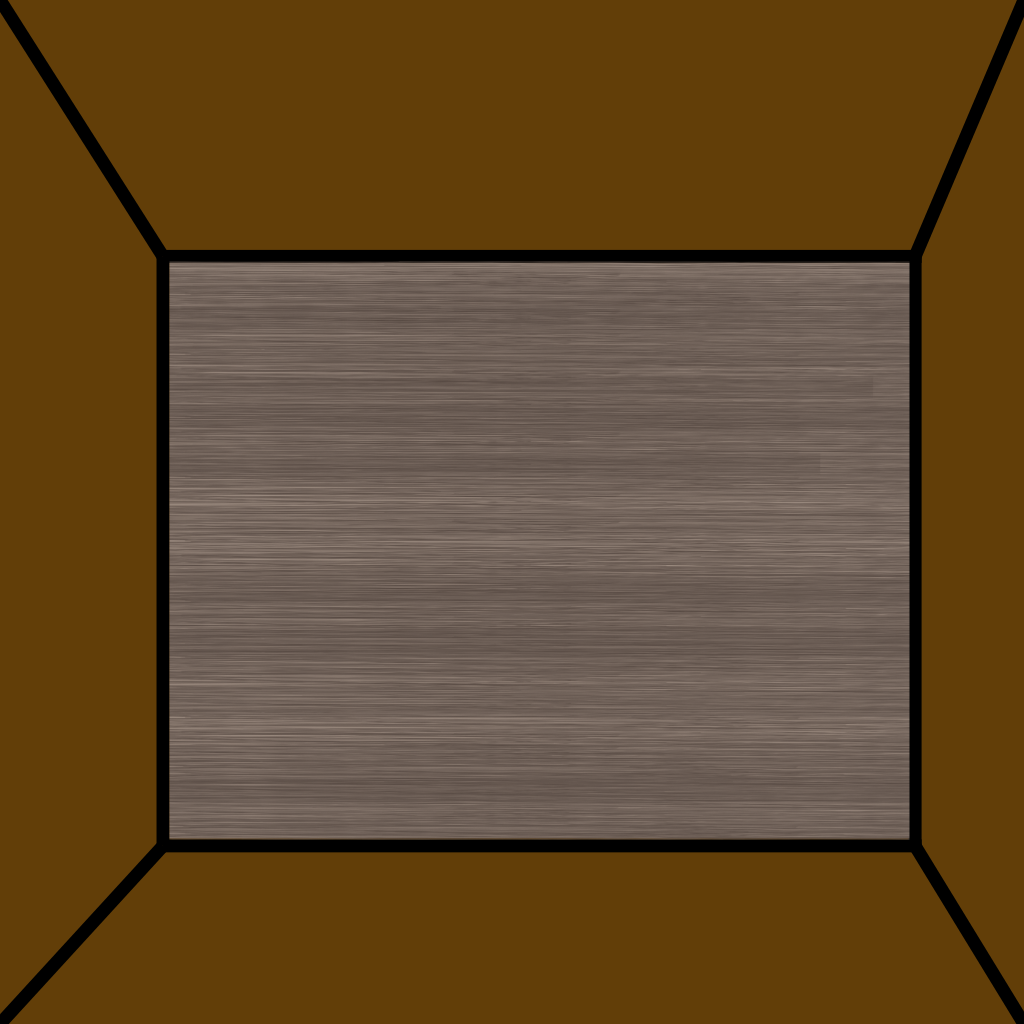
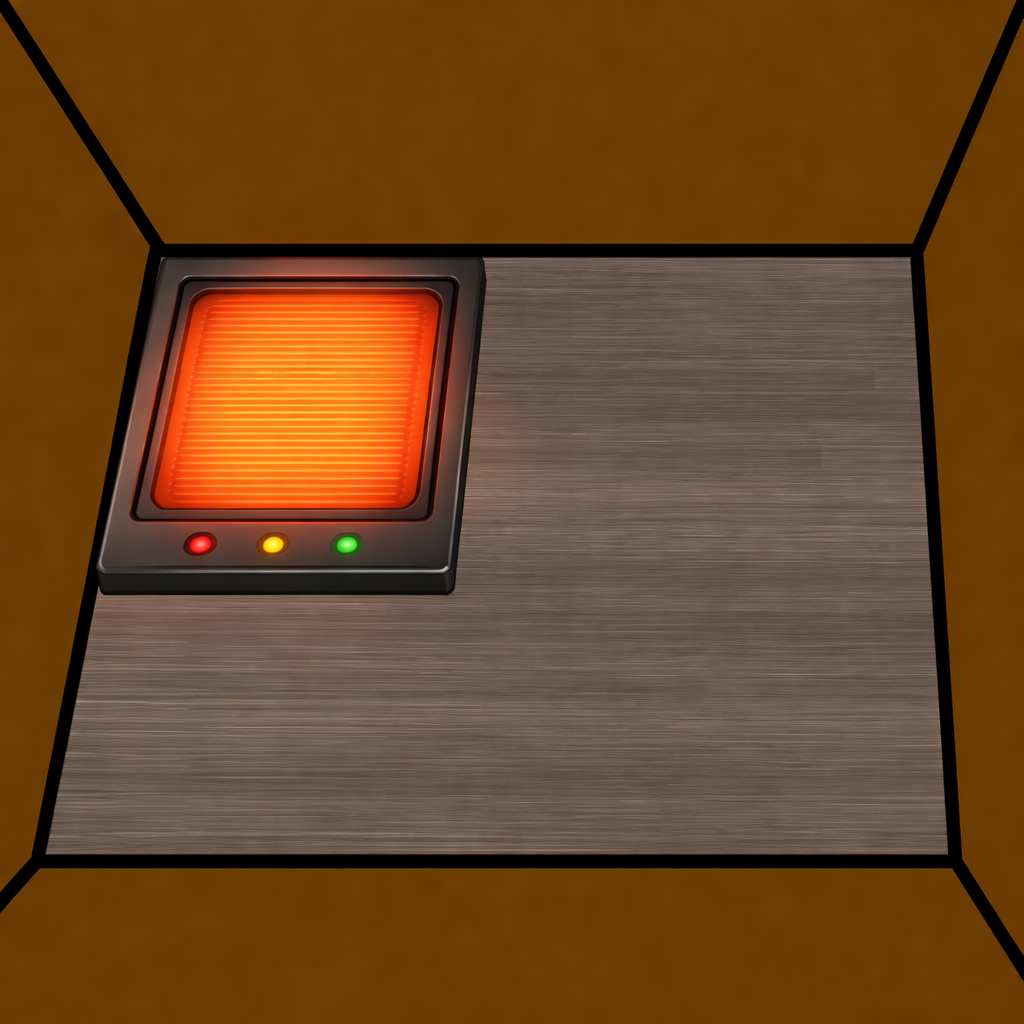
28 add

diff --git a/zxcvb.html b/zxcvb.html
@@ -1382,11 +1382,12 @@
                 book4: ['images/28/book_4.png'],
                 book5: ['images/28/book_5.png'],
                 book6: ['images/28/book_6.png'],
-                boxInner: ['images/28/box_inner.png'],
+                boxInner: ['images/28/box_inner.png', 'images/28/box_inner2.png'],
 
                 end: ['images/28/end.png'],
                 // endWorse: ['images/28/end_worse.jpeg'],
                 trueEnd: ['images/28/true_end.png'],
+                trueEnd2: ['images/28/true_end2.png'],
 
             },
             items: {
@@ -1416,6 +1417,7 @@
                 kaniDead: 'images/28/kani_dead.png',
                 onigiri: 'images/28/onigiri.png',
                 onigiriBack: 'images/28/onigiri_back.png',
+                yakiOnigiri: 'images/28/yaki_onigiri.png',
                 board: 'images/28/board.png',
                 seed: 'images/28/seed.png',
                 water: 'images/28/water.png',
@@ -1470,6 +1472,10 @@
                 fertilizerToPlantar7b: 'images/28/modal_fertilizer_7b.png',
                 keyHasami: 'images/28/modal_key_hasami.png',
                 kaniKey: 'images/28/modal_kani_key.png',
+                grilOnigiri1: 'images/28/modal_gril_onigiri_1.png',
+                grilOnigiri2: 'images/28/modal_gril_onigiri_2.png',
+                bearAppear: 'images/28/modal_bear_appear.png',
+                bearLeave: 'images/28/modal_bear_leave.png',
 
 
 
@@ -1522,6 +1528,7 @@
                         readBook6: false, unlockPowerOffPuzzle: false,
                         appearOrangeFruit: false,
                         kaniCutString: false,
+                        cookedOnigiri: false,
 
                         bearAppear: false,
 
@@ -2605,7 +2612,7 @@
                 description: '',
                 clickableAreas: [
                     {
-                        x: 56.3, y: 28.2, width: 28.7, height: 24.2,
+                        x: 66.8, y: 58.8, width: 24.0, height: 23.8,
                         onClick: clickWrap(function () {
                             acquireItemOnce('foundDriver', 'driver', 'ドライバーを見つけた', IMAGES.items.driver, 'ドライバーを手に入れた');
                         }),
@@ -2613,6 +2620,82 @@
                         zIndex: 5,
                         usable: () => !gameState.main.flags.foundDriver,
                         item: { img: 'driver', visible: () => !gameState.main.flags.foundDriver }
+                    },
+                    {
+                        x: 14.1, y: 25.0, width: 28.9, height: 30.3,
+                        onClick: clickWrap(function () {
+                            const f = gameState.main.flags;
+
+                            // もう焼いてたら軽く流す
+                            if (f.cookedOnigiri) {
+                                updateMessage('焼きおにぎりの香りがする。');
+                                return;
+                            }
+
+                            // 電源OFFなら焼けない
+                            if (!f.powerOn) {
+                                updateMessage('電源が入っていない。');
+                                return;
+                            }
+
+                            // 電源ONかつ、おにぎりを使ってるなら焼く
+                            if (gameState.selectedItem === 'onigiri') {
+                                playSE('se-gril');
+
+                                // 2枚アニメ
+                                const frames = [
+                                    IMAGES.modals.grilOnigiri1,
+                                    IMAGES.modals.grilOnigiri2,
+                                ];
+                                const animHtml = `
+        <div class="modal-anim frames" style="height: min(400px, 80vw);">
+          ${frames.map(src => `<img src="${src}" alt="">`).join('')}
+        </div>
+      `;
+
+                                showModal(
+                                    'おにぎりを置いた',
+                                    animHtml,
+                                    [{ text: '閉じる', action: 'close' }]
+                                );
+
+                                // 変換：onigiri → yakiOnigiri
+                                removeItem('onigiri');
+                                // addItem('yakiOnigiri');
+                                updateInventoryDisplay?.();
+
+                                f.cookedOnigiri = true;
+                                updateMessage('おにぎりを焼いた。');
+                                return;
+                            }
+
+                            // それ以外は触れない
+                            updateMessage('熱くて触ることができない');
+
+                        }),
+                        description: '電熱版',
+                        zIndex: 1,
+                        usable: () => true,
+                        item: { img: 'IMAGE_KEY', visible: () => true }
+                    },
+                    {
+                        x: 21.8, y: 31.3, width: 15.4, height: 16.0,
+                        onClick: clickWrap(function () {
+                            if (gameState.main.flags.powerOn) {
+                                updateMessage('熱くて触ることができない');
+                            } else {
+                                acquireItemOnce('gotYakionigiri', 'yakiOnigiri', '焼きおにぎりを手に入れた', IMAGES.items.yakiOnigiri, '焼きおにぎりを手に入れた');
+
+                                // ★ 直後にクマ妖精イベント
+                                setTimeout(() => {
+                                    showBearFairyEvent();
+                                }, 200);
+                            }
+                        }),
+                        description: '焼きおにぎり',
+                        zIndex: 5,
+                        usable: () => gameState.main.flags.cookedOnigiri && !gameState.main.flags.gotYakionigiri,
+                        item: { img: 'yakiOnigiri', visible: () => gameState.main.flags.cookedOnigiri && !gameState.main.flags.gotYakionigiri }
                     },
 
                     {
@@ -2686,6 +2769,63 @@
                         onClick: clickWrap(function () {
                             updateMessage('カニを因果から救いました。おめでとうございます！');
                             showEndingReport('trueEnd');
+                        }),
+                        description: 'トゥルーエンド',
+                        usable: () => true,
+                    },
+
+                ]
+            },
+            trueEnd2: {
+                name: 'トゥルーエンド2',
+                description: 'カニを因果から救い、ひもじいクマにご飯をあげました。',
+                clickableAreas: [
+                    {
+                        x: 1.4, y: 22.8, width: 59.2, height: 41.0,
+                        onClick: clickWrap(function () {
+                            updateMessage('カニファミリーがピクニックしている');
+                        }),
+                        description: 'カニファミリー',
+                        zIndex: 5,
+                        usable: () => true,
+                        item: { img: 'IMAGE_KEY', visible: () => true }
+                    },
+                    {
+                        x: 61.5, y: 13.2, width: 38.5, height: 32.4,
+                        onClick: clickWrap(function () {
+                            updateMessage('クマ妖精はなぜかピクニックに参加している');
+                        }),
+                        description: 'クマ妖精',
+                        zIndex: 5,
+                        usable: () => true,
+                        item: { img: 'IMAGE_KEY', visible: () => true }
+                    },
+                    {
+                        x: 50.5, y: 68.6, width: 28.8, height: 15.6,
+                        onClick: clickWrap(function () {
+                            updateMessage('焼きおにぎりだ');
+                        }),
+                        description: '焼きおにぎり',
+                        zIndex: 5,
+                        usable: () => true,
+                        item: { img: 'IMAGE_KEY', visible: () => true }
+                    },
+                    {
+                        x: 23.2, y: 64.4, width: 23.5, height: 11.0,
+                        onClick: clickWrap(function () {
+                            updateMessage('食べやすいようカットされた柿だ');
+                        }),
+                        description: 'カットされた柿',
+                        zIndex: 5,
+                        usable: () => true,
+                        item: { img: 'IMAGE_KEY', visible: () => true }
+                    },
+
+                    {
+                        x: 0, y: 0, width: 100, height: 100,
+                        onClick: clickWrap(function () {
+                            updateMessage('カニを因果から救いました。おめでとうございます！');
+                            showEndingReport('trueEnd2');
                         }),
                         description: 'トゥルーエンド',
                         usable: () => true,
@@ -2911,7 +3051,7 @@
             }
 
             // BGM切替はそのまま
-            if (roomId === "trueEnd") {
+            if (roomId === "trueEnd" || roomId === "trueEnd2") {
                 changeBGM("sounds/28/jinja_ichou_namiki.mp3");
 
             } else if (roomId === "end") {
@@ -2937,7 +3077,7 @@
             renderNavigation();
         }
 
-        const END_IDS = new Set(['end', 'trueEnd']);
+        const END_IDS = new Set(['end', 'trueEnd', 'trueEnd2']);
 
         // ===== changeRoom フック：=====
         const _changeRoom_custom = changeRoom;
@@ -3195,6 +3335,12 @@
         function getRoomBackgroundImage(roomId, gameState) {
             let imgList = IMAGES.rooms[roomId]; // ★ const → let
 
+            if (roomId === 'boxInner') {
+                return gameState.main.flags.powerOn
+                    ? IMAGES.rooms.boxInner[0]
+                    : IMAGES.rooms.boxInner[1];
+            }
+
             // ★ book1〜3みたいに {jp:[], en:[]} 形式なら言語で選ぶ
             if (imgList && !Array.isArray(imgList) && (imgList.jp || imgList.en)) {
                 imgList = imgList[uiLang] || imgList.jp || imgList.en;
@@ -3361,6 +3507,11 @@
                     label: "TRUE END",
                     desc: "カニの団欒"
                 },
+                trueEnd2: {
+                    title: "🦀 TRUE END2",
+                    label: "TRUE END2",
+                    desc: "カニクマハピネス"
+                },
                 end: {
                     title: "🌇 NORMAL END ",
                     label: "NORMAL END ",
@@ -3378,6 +3529,9 @@
             switch (endingId) {
                 case "trueEnd":
                     secretText = "🦀 カニの平和を守りました";
+                    break;
+                case "trueEnd2":
+                    secretText = "🦀🐻 カニの平和を守り、クマの空腹を満たしました";
                     break;
                 case "end":
                     secretText = `😢 犠牲がありました`;
@@ -4119,6 +4273,44 @@
             );
         }
 
+        function showBearFairyEvent() {
+            showModal(
+                'どこからともなくクマ妖精があらわれた。「良い匂い…」',
+                `<img src="${IMAGES.modals.bearAppear}" style="width:100%;max-width:360px;">`,
+                [
+                    {
+                        text: '焼きおにぎりをあげる',
+                        action: () => {
+                            // 焼きおにぎり消費
+                            removeItem('yakiOnigiri');
+                            updateInventoryDisplay?.();
+
+                            gameState.main.flags.bearAppear = true;
+                            playSE('se-bear-eat');
+
+                            closeModal();
+
+                            // 退場モーダル
+                            setTimeout(() => {
+                                showModal(
+                                    'クマ妖精は嬉しそうに去って行った',
+                                    `<img src="${IMAGES.modals.bearLeave}" style="width:100%;max-width:360px;">`,
+                                    [
+                                        {
+                                            text: '閉じる',
+                                            action: 'close'
+                                        }
+                                    ]
+                                );
+                                playSE('se-bear-flying');
+                            }, 200);
+                        }
+                    }
+                ]
+            );
+        }
+
+
 
 
 
@@ -4128,8 +4320,14 @@
             const goEnding = () => {
 
                 if (trueEndFlg) {
+
                     gameState.endings.true = true;
-                    travelWithStepsTrueEnd();
+                    if (gameState.main.flags.bearAppear) {
+                        travelWithSteps('trueEnd2');
+                    } else {
+                        travelWithStepsTrueEnd();
+                    }
+
                 } else {
                     travelWithSteps('end');
                 }
